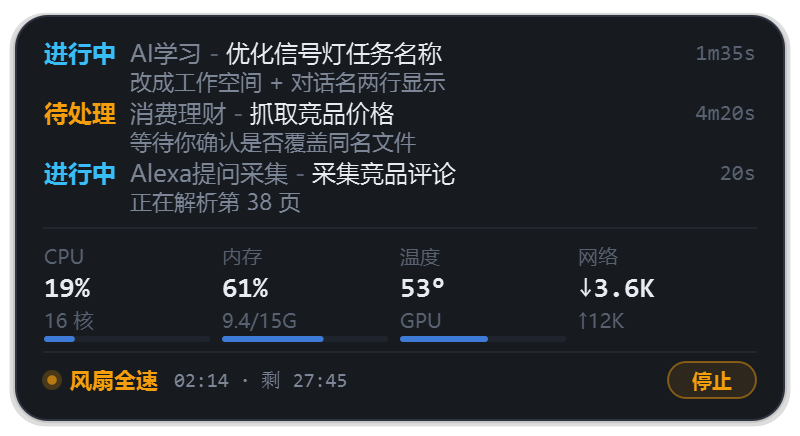
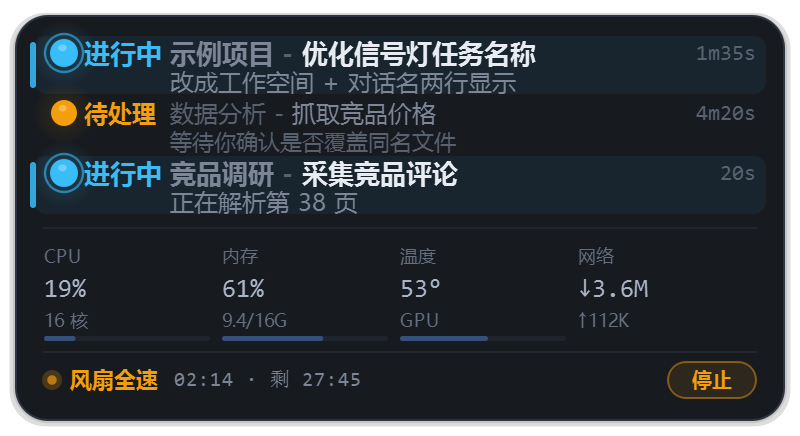
chore: 清理演示数据中的真实工作空间名与本机路径
演示数据里写的是作者真实的工作空间名与业务线，会随仓库一起公开。
这些字符串只用于占位展示，不参与任何逻辑，故替换为中性示例。

文本替换（31 处，7 个文件）：
  AI学习                        -> 示例项目
  消费理财                      -> 数据分析
  Alexa提问采集                 -> 竞品调研
  工作-202602-Alexa提问采集      -> 工作-202602-竞品调研

涉及 README.md、app/main.py、_dev/_render_{doc,multi,show,theme}.py、
_dev/_ui_smoke.py。

本机路径替换（1 处）：
  _dev/_test_autostart.py 的 D:/AI/WorkBuddy/AI学习/AI工作信号灯/dist/...
  改为 C:/Program Files\AI Signal Light\dist\...

截图重新生成（docs/screenshot.png）：
README 首图内渲染着上述三个真实名字，正则与 grep 都扫不到，
只有真正打开图片才能发现，必须随文本一并重新生成。
_dev/*.png 是 gitignore 的本地生成物，不入库；assets/ 下的图标
经确认无文字。

顺带修掉 _dev/_render_doc.py 的两个可复现性缺陷 —— 原脚本每次
渲染出的 README 配图都不一样：

1) 主题走 auto，经注册表 AppsUseLightTheme 跟随渲染机器的系统
   深浅色。同一份代码在浅色系统上渲染出浅色截图，与 README 正文
   描述的深色卡片对不上。改为显式钉死 dark 主题。

2) 指标区取自 metrics.sample() 的本机实时采样，每次渲染 CPU、
   内存、网络、核数都不同。改为固定为确定值，与 README 正文的
   示意数值保持一致。

diff --git a/app/main.py b/app/main.py
@@ -380,10 +380,10 @@ class SignalLight(QWidget):
         # 三元组顺序与真实数据一致：工作空间 / 对话名 / 本轮指令。
         # 最后一步故意放三个并行任务，用来检查多行布局与高度自动扩张。
         seq = [
-            (st.RUNNING, "AI学习", "完善信号灯任务名称", "优化：显示的任务名称，改为工作空间 + 对话名"),
-            (st.DONE, "AI学习", "完善信号灯任务名称", "已完成"),
-            (st.WAITING, "工作-202602-Alexa提问采集", "采集竞品价格", "等待你确认是否覆盖同名文件"),
-            (st.FAILED, "消费理财", "抓取竞品价格", "接口返回 429"),
+            (st.RUNNING, "示例项目", "完善信号灯任务名称", "优化：显示的任务名称，改为工作空间 + 对话名"),
+            (st.DONE, "示例项目", "完善信号灯任务名称", "已完成"),
+            (st.WAITING, "工作-202602-竞品调研", "采集竞品价格", "等待你确认是否覆盖同名文件"),
+            (st.FAILED, "数据分析", "抓取竞品价格", "接口返回 429"),
             (st.IDLE, "", "", ""),
         ]
         self.reader._last_mtime = 1e18  # 阻断真实文件覆盖
@@ -392,11 +392,11 @@ class SignalLight(QWidget):
             now = time.time()
             self.rows = [
                 st.Slot("workbuddy", "d1", st.RUNNING, "完善信号灯任务名称", "加多任务行显示",
-                        now - 95, 999, now, "AI学习"),
+                        now - 95, 999, now, "示例项目"),
                 st.Slot("workbuddy", "d2", st.WAITING, "采集竞品价格", "等待确认覆盖同名文件",
-                        now - 260, 999, now, "工作-202602-Alexa提问采集"),
+                        now - 260, 999, now, "工作-202602-竞品调研"),
                 st.Slot("workbuddy", "d3", st.RUNNING, "月度账单归类", "读取 3 月流水",
-                        now - 20, 999, now, "消费理财"),
+                        now - 20, 999, now, "数据分析"),
             ]
             self._row_keys = [_row_key(s) for s in self.rows]
             self.status = st.compose(self.rows, st.Status())
@@ -628,7 +628,7 @@ class SignalLight(QWidget):
                               max(label_w, QFontMetrics(f).horizontalAdvance(label) + 2), 15),
                        Qt.AlignLeft | Qt.AlignVCenter, label)
             # +3 是状态词与名称之间的呼吸位：宽度正好贴住时两个不同颜色的词
-            # 会黏成一句，读起来像"进行中AI学习"。
+            # 会黏成一句，读起来像"进行中示例项目"。
             prefix += label_w + 3
 
         tw = 0.0

diff --git a/_dev/_render_doc.py b/_dev/_render_doc.py
@@ -33,21 +33,35 @@ w.show()
 for t in (w._anim, w._res, w._poll, w._cool):
     t.stop()
 app.processEvents()
-w.metrics.sample()
+# 指标区钉死为确定值：sample() 采的是渲染机器的实时负载，
+# 每次跑出来的 CPU/内存/网络/核数都不一样，README 配图无法复现。
+# 这里用一组固定的示例值，与 README 正文里的示意数值保持一致。
+w.metrics.cpu = 19.0
+w.metrics.mem = 61.0
+w.metrics.mem_used = int(w.metrics.mem_total * 0.59) if w.metrics.mem_total else 9_437_184
+w.metrics.mem_total = 16 * 1024 ** 3
+w.metrics.mem_used = int(w.metrics.mem_total * 0.59)
+w.metrics.cores = 16
+w.metrics.down = 3.6 * 1024 * 1024
+w.metrics.up = 112 * 1024
 w.thermal.temp = 53.0
 w.thermal.label = "GPU"
 
 now = time.time()
 rows = [
     st.Slot("workbuddy", "r1", st.RUNNING, "优化信号灯任务名称",
-            "改成工作空间 + 对话名两行显示", now - 95, 999, now, "AI学习"),
+            "改成工作空间 + 对话名两行显示", now - 95, 999, now, "示例项目"),
     st.Slot("workbuddy", "r2", st.WAITING, "抓取竞品价格",
-            "等待你确认是否覆盖同名文件", now - 260, 999, now, "消费理财"),
+            "等待你确认是否覆盖同名文件", now - 260, 999, now, "数据分析"),
     st.Slot("workbuddy", "r3", st.RUNNING, "采集竞品评论",
-            "正在解析第 38 页", now - 20, 999, now, "Alexa提问采集"),
+            "正在解析第 38 页", now - 20, 999, now, "竞品调研"),
 ]
 
 w.set_style("standard")
+# README 配图必须可复现：显式钉死深色主题。
+# 否则 auto 会跟随渲染机器的 Windows 深浅色，同一份代码在浅色系统上
+# 渲染出浅色截图，README 首图与文中描述的深色卡片对不上。
+w._apply_theme("dark", save=False)
 w.rows = list(rows)
 w._row_keys = [M._row_key(s) for s in rows]
 w.status = st.compose(rows, st.Status())

diff --git a/_dev/_render_multi.py b/_dev/_render_multi.py
@@ -36,12 +36,12 @@ def row(i, state, work, name, detail, age):
 
 
 SETS = {
-    1: [row(1, st.RUNNING, "AI学习", "优化信号灯任务名称", "改成工作空间 + 对话名两行显示", 95)],
-    2: [row(1, st.RUNNING, "AI学习", "优化信号灯任务名称", "改成工作空间 + 对话名两行显示", 95),
-        row(2, st.WAITING, "消费理财", "抓取竞品价格", "等待你确认是否覆盖同名文件", 260)],
-    3: [row(1, st.RUNNING, "AI学习", "优化信号灯任务名称", "改成工作空间 + 对话名两行显示", 95),
-        row(2, st.WAITING, "消费理财", "抓取竞品价格", "等待你确认是否覆盖同名文件", 260),
-        row(3, st.RUNNING, "工作-202602-Alexa提问采集", "采集竞品评论", "正在解析第 38 页", 20)],
+    1: [row(1, st.RUNNING, "示例项目", "优化信号灯任务名称", "改成工作空间 + 对话名两行显示", 95)],
+    2: [row(1, st.RUNNING, "示例项目", "优化信号灯任务名称", "改成工作空间 + 对话名两行显示", 95),
+        row(2, st.WAITING, "数据分析", "抓取竞品价格", "等待你确认是否覆盖同名文件", 260)],
+    3: [row(1, st.RUNNING, "示例项目", "优化信号灯任务名称", "改成工作空间 + 对话名两行显示", 95),
+        row(2, st.WAITING, "数据分析", "抓取竞品价格", "等待你确认是否覆盖同名文件", 260),
+        row(3, st.RUNNING, "工作-202602-竞品调研", "采集竞品评论", "正在解析第 38 页", 20)],
     5: [row(i, st.RUNNING, f"工作{i}", f"对话{i}", f"正在处理第 {i} 项", 30 * i) for i in range(1, 6)],
 }
 

diff --git a/_dev/_ui_smoke.py b/_dev/_ui_smoke.py
@@ -157,8 +157,8 @@ w._on_state_change()
 app.processEvents()
 h1 = w.height()
 
-w.rows = [mk(1, st.RUNNING, "AI学习", "完善信号灯", "改任务名称"),
-          mk(2, st.WAITING, "消费理财", "抓竞品价格", "等待确认")]
+w.rows = [mk(1, st.RUNNING, "示例项目", "完善信号灯", "改任务名称"),
+          mk(2, st.WAITING, "数据分析", "抓竞品价格", "等待确认")]
 w._row_keys = [M._row_key(s) for s in w.rows]
 w.status = st.compose(w.rows, st.Status())
 w._on_state_change()
@@ -189,8 +189,8 @@ check("多任务渲染不崩", not pm.isNull() and pm.width() == w.width(), pm.s
 for sid, extra in ((M.STYLE_BAR, 22), (M.STYLE_STACK, 30)):
     w.set_style(sid)
     app.processEvents()
-    w.rows = [mk(1, st.RUNNING, "AI学习", "完善信号灯", "改任务名称"),
-              mk(2, st.WAITING, "消费理财", "抓竞品价格", "等待确认")]
+    w.rows = [mk(1, st.RUNNING, "示例项目", "完善信号灯", "改任务名称"),
+              mk(2, st.WAITING, "数据分析", "抓竞品价格", "等待确认")]
     w._row_keys = [M._row_key(s) for s in w.rows]
     w.status = st.compose(w.rows, st.Status())
     w._on_state_change()

diff --git a/_dev/_render_show.py b/_dev/_render_show.py
@@ -40,12 +40,12 @@ w.thermal.label = "GPU"
 
 NOW = time.time()
 SINGLE = [st.Slot("workbuddy", "r1", st.RUNNING, "优化信号灯任务名称",
-                  "改成工作空间 + 对话名两行显示", NOW - 95, 999, NOW, "AI学习")]
+                  "改成工作空间 + 对话名两行显示", NOW - 95, 999, NOW, "示例项目")]
 MULTI = [
     st.Slot("workbuddy", "r1", st.RUNNING, "优化信号灯任务名称",
-            "改成工作空间 + 对话名两行显示", NOW - 95, 999, NOW, "AI学习"),
+            "改成工作空间 + 对话名两行显示", NOW - 95, 999, NOW, "示例项目"),
     st.Slot("workbuddy", "r2", st.WAITING, "抓取竞品价格",
-            "等待你确认是否覆盖同名文件", NOW - 260, 999, NOW, "消费理财"),
+            "等待你确认是否覆盖同名文件", NOW - 260, 999, NOW, "数据分析"),
 ]
 
 # (标签, 设置覆盖, 任务集合, 是否开散热)

diff --git a/_dev/_render_theme.py b/_dev/_render_theme.py
@@ -33,9 +33,9 @@ w.thermal.label = "GPU"
 NOW = time.time()
 ROWS = [
     st.Slot("workbuddy", "r1", st.RUNNING, "优化信号灯任务名称",
-            "改成工作空间 - 对话名两行显示", NOW - 95, 999, NOW, "AI学习"),
+            "改成工作空间 - 对话名两行显示", NOW - 95, 999, NOW, "示例项目"),
     st.Slot("codex", "r2", st.WAITING, "抓取竞品价格",
-            "等待确认是否覆盖同名文件", NOW - 260, 999, NOW, "消费理财"),
+            "等待确认是否覆盖同名文件", NOW - 260, 999, NOW, "数据分析"),
 ]
 
 

diff --git a/README.md b/README.md
@@ -6,7 +6,7 @@ Windows 桌面常驻小挂件。无边框、始终置顶、可拖拽，用一盏
 
 ```
 ┌──────────────────────────────────────────────────┐
-│  ●   进行中        AI学习 - 优化信号灯任务名称     │  ← 工作空间 - 对话名
+│  ●   进行中        示例项目 - 优化信号灯任务名称     │  ← 工作空间 - 对话名
 │      改成工作空间 + 对话名两行显示            1m35s │  ← 这一轮在干什么
 │  ──────────────────────────────────────────────  │
 │  CPU       内存       温度        网络            │
@@ -21,11 +21,11 @@ Windows 桌面常驻小挂件。无边框、始终置顶、可拖拽，用一盏
 
 ```
 ┌──────────────────────────────────────────────────┐
-│  进行中  AI学习 - 优化信号灯任务名称         1m35s │
+│  进行中  示例项目 - 优化信号灯任务名称         1m35s │
 │          改成工作空间 + 对话名两行显示             │
-│  待处理  消费理财 - 抓取竞品价格             4m20s │
+│  待处理  数据分析 - 抓取竞品价格             4m20s │
 │          等待你确认是否覆盖同名文件                │
-│  进行中  工作-202602-Alexa提问采集 - 采集竞品评论  │
+│  进行中  工作-202602-竞品调研 - 采集竞品评论  │
 │          正在解析第 38 页                     20s │
 │  ──────────────────────────────────────────────  │
 │  CPU       内存       温度        网络            │
@@ -484,7 +484,7 @@ AI工作信号灯/
 - **Codex 的文件 mtime 不可靠**：实测 5 个会话文件里只有 1 个的 mtime 与内容末尾时间吻合。改用文件名内嵌的时间戳排序与判新鲜度。
 - **标题被 prompt 里的 XML 标签污染**：开头标签块和 `@xxx#id:"name"` 徽标会被循环剥掉，剥空则退回原文。
 - **会话标题不在文件尾部**：`ai-title` 固定落在 transcript 前 13KB，一轮内的工具调用能追加几百 KB，从尾部读必然落空。改成"先头后尾"。
-- **多行布局时状态词与任务名黏连**：`label_w` 正好等于"进行中"三个字的宽度，两个不同颜色会拼成"进行中AI学习"。现在名称起点固定 +3px。
+- **多行布局时状态词与任务名黏连**：`label_w` 正好等于"进行中"三个字的宽度，两个不同颜色会拼成"进行中示例项目"。现在名称起点固定 +3px。
 - **横条多任务时指标串被卡片下边缘裁掉**：行高 24 配 20px 增量，三行时把指标挤出边界。行高改 22、增量改 22。
 - **`_apply_size` 不同步 `_rows_shown`**：换版式时高度按当前 rows 重算，但基线没更新，导致之后 `_fit_rows` 认为"行数没变"，再也不肯调高度。
 - **`QAction.triggered` 信号在 PySide6 对 checkable action 可能不传 `checked`**：`triggered` 有 `()` / `(bool)` 两个重载，`lambda v:` 单参数连接可能匹配到无参版本导致 `_set_autostart` 收不到参数静默失效。改用 `toggled(bool)` 只有一个签名，不会歧义。
